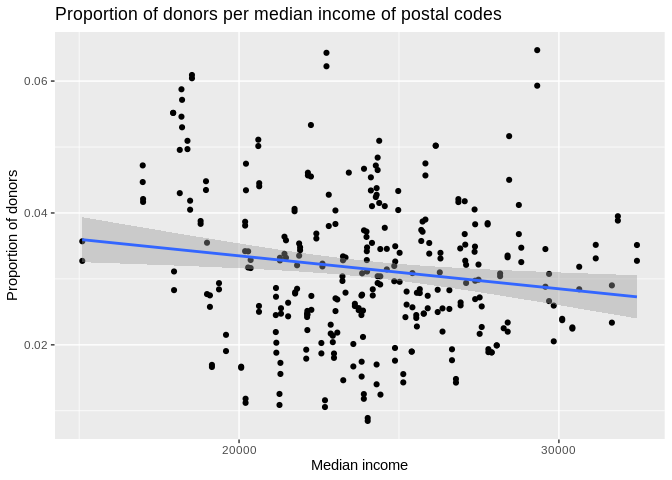
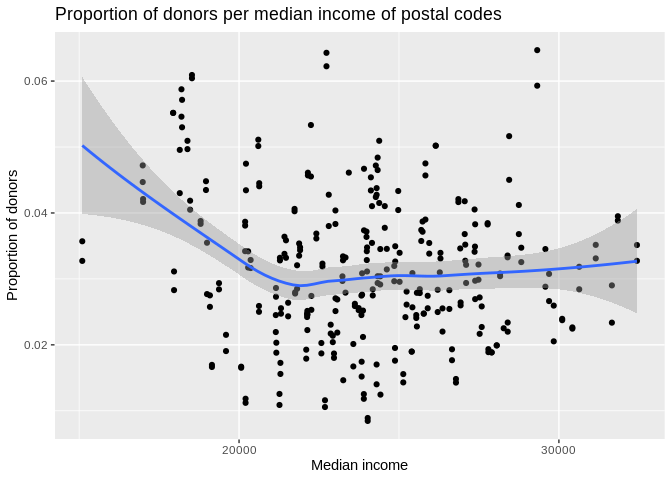
few comments and pretty strong negative trend with proportion of donors and distance

Changed region(s): [[0.125, 0.1562, 0.9688, 0.6562]]

diff --git a/src/visualising_model_data.md b/src/visualising_model_data.md
@@ -7,14 +7,14 @@ Ilpo Arminen
 library(tidyverse)
 ```
 
-    ## ── Attaching packages ─────────────────────────────────────── tidyverse 1.2.1 ──
+    ## ── Attaching packages ───────────────────────────────────────────────────── tidyverse 1.2.1 ──
 
     ## ✔ ggplot2 3.2.0          ✔ purrr   0.3.2     
     ## ✔ tibble  2.1.3          ✔ dplyr   0.8.2     
     ## ✔ tidyr   0.8.3.9000     ✔ stringr 1.4.0     
     ## ✔ readr   1.3.1          ✔ forcats 0.4.0
 
-    ## ── Conflicts ────────────────────────────────────────── tidyverse_conflicts() ──
+    ## ── Conflicts ──────────────────────────────────────────────────────── tidyverse_conflicts() ──
     ## ✖ dplyr::filter() masks stats::filter()
     ## ✖ dplyr::lag()    masks stats::lag()
 
@@ -57,7 +57,7 @@ load("/home/ilpo/Paavo/data/model_data.RData")
 label(model_data$medianincome)  <- "Median income of household per postal code"
 label(model_data$averageincome) <- "Average income of household per postal code"
 label(model_data$proportion_inhabitants_with_higher_education)  <- "Share of inhabitants with higher education per postal code"
-label(model_data$prop_donors) <- "Proportion of donors per postal code "
+label(model_data$prop_donors) <- "Proportion of donors per postal code."
 label(model_data$nb_fixed_donations_per_zip) <- "Proportion of donations per postal code"
 label(model_data$nb_fixed_donors_per_zip) <- "Number of donors per zip"
 label(model_data$proportion_inhabitants_with_higher_education) <- "Proportion_inhabitants_with_higher_education"
@@ -71,7 +71,7 @@ units(model_data$averageincome) <- "Euro"
  table1(~prop_donors + eligible_population + nb_fixed_donors_per_zip + nb_fixed_donations_per_zip + nb_fixed_donors_per_zip + medianincome + averageincome + proportion_inhabitants_with_higher_education + proportion_inhabitants_with_higher_education + prop_repeat_donors + prop_new_donors + prop_donors + nb_fixed_donation_per_act_donor,data = model_data, overall = "Total", topclass="Rtable1-grid Rtable1-center")
 ```
 
-    ## [1] "<table class=\"Rtable1-grid Rtable1-center\">\n<thead>\n<tr>\n<th class='rowlabel firstrow lastrow'></th>\n<th class='firstrow lastrow'><span class='stratlabel'>Total<br><span class='stratn'>(n=302)</span></span></th>\n</tr>\n</thead>\n<tbody>\n<tr>\n<td class='rowlabel firstrow'><span class='varlabel'>Proportion of donors per postal code </span></td>\n<td class='firstrow'></td>\n</tr>\n<tr>\n<td class='rowlabel'>Mean (SD)</td>\n<td>0.0315 (0.0110)</td>\n</tr>\n<tr>\n<td class='rowlabel lastrow'>Median [Min, Max]</td>\n<td class='lastrow'>0.0308 [0.00846, 0.0647]</td>\n</tr>\n<tr>\n<td class='rowlabel firstrow'><span class='varlabel'>Number of residents per zip who is suitable for donating blood</span></td>\n<td class='firstrow'></td>\n</tr>\n<tr>\n<td class='rowlabel'>Mean (SD)</td>\n<td>4960 (2810)</td>\n</tr>\n<tr>\n<td class='rowlabel lastrow'>Median [Min, Max]</td>\n<td class='lastrow'>4440 [1110, 15700]</td>\n</tr>\n<tr>\n<td class='rowlabel firstrow'><span class='varlabel'>Number of donors per zip</span></td>\n<td class='firstrow'></td>\n</tr>\n<tr>\n<td class='rowlabel'>Mean (SD)</td>\n<td>145 (86.9)</td>\n</tr>\n<tr>\n<td class='rowlabel lastrow'>Median [Min, Max]</td>\n<td class='lastrow'>117 [53.0, 552]</td>\n</tr>\n<tr>\n<td class='rowlabel firstrow'><span class='varlabel'>Proportion of donations per postal code</span></td>\n<td class='firstrow'></td>\n</tr>\n<tr>\n<td class='rowlabel'>Mean (SD)</td>\n<td>248 (143)</td>\n</tr>\n<tr>\n<td class='rowlabel lastrow'>Median [Min, Max]</td>\n<td class='lastrow'>205 [100, 929]</td>\n</tr>\n<tr>\n<td class='rowlabel firstrow'><span class='varlabel'>Median income of household per postal code<span class='varunits'> (Euro)</span></span></td>\n<td class='firstrow'></td>\n</tr>\n<tr>\n<td class='rowlabel'>Mean (SD)</td>\n<td>23700 (3320)</td>\n</tr>\n<tr>\n<td class='rowlabel lastrow'>Median [Min, Max]</td>\n<td class='lastrow'>23500 [16400, 33100]</td>\n</tr>\n<tr>\n<td class='rowlabel firstrow'><span class='varlabel'>Average income of household per postal code<span class='varunits'> (Euro)</span></span></td>\n<td class='firstrow'></td>\n</tr>\n<tr>\n<td class='rowlabel'>Mean (SD)</td>\n<td>27200 (5770)</td>\n</tr>\n<tr>\n<td class='rowlabel lastrow'>Median [Min, Max]</td>\n<td class='lastrow'>25700 [17900, 53700]</td>\n</tr>\n<tr>\n<td class='rowlabel firstrow'><span class='varlabel'>Proportion_inhabitants_with_higher_education</span></td>\n<td class='firstrow'></td>\n</tr>\n<tr>\n<td class='rowlabel'>Mean (SD)</td>\n<td>0.417 (0.156)</td>\n</tr>\n<tr>\n<td class='rowlabel lastrow'>Median [Min, Max]</td>\n<td class='lastrow'>0.408 [0.132, 0.770]</td>\n</tr>\n<tr>\n<td class='rowlabel firstrow'><span class='varlabel'>prop_repeat_donors</span></td>\n<td class='firstrow'></td>\n</tr>\n<tr>\n<td class='rowlabel'>Mean (SD)</td>\n<td>0.0279 (0.00977)</td>\n</tr>\n<tr>\n<td class='rowlabel lastrow'>Median [Min, Max]</td>\n<td class='lastrow'>0.0266 [0.00812, 0.0557]</td>\n</tr>\n<tr>\n<td class='rowlabel firstrow'><span class='varlabel'>prop_new_donors</span></td>\n<td class='firstrow'></td>\n</tr>\n<tr>\n<td class='rowlabel'>Mean (SD)</td>\n<td>0.00363 (0.00173)</td>\n</tr>\n<tr>\n<td class='rowlabel lastrow'>Median [Min, Max]</td>\n<td class='lastrow'>0.00337 [0.000334, 0.0108]</td>\n</tr>\n<tr>\n<td class='rowlabel firstrow'><span class='varlabel'>Number of donations divided by numbers of donor per zip</span></td>\n<td class='firstrow'></td>\n</tr>\n<tr>\n<td class='rowlabel'>Mean (SD)</td>\n<td>1.73 (0.145)</td>\n</tr>\n<tr>\n<td class='rowlabel lastrow'>Median [Min, Max]</td>\n<td class='lastrow'>1.71 [1.41, 2.32]</td>\n</tr>\n</tbody>\n</table>\n"
+    ## [1] "<table class=\"Rtable1-grid Rtable1-center\">\n<thead>\n<tr>\n<th class='rowlabel firstrow lastrow'></th>\n<th class='firstrow lastrow'><span class='stratlabel'>Total<br><span class='stratn'>(n=302)</span></span></th>\n</tr>\n</thead>\n<tbody>\n<tr>\n<td class='rowlabel firstrow'><span class='varlabel'>Proportion of donors per postal code.</span></td>\n<td class='firstrow'></td>\n</tr>\n<tr>\n<td class='rowlabel'>Mean (SD)</td>\n<td>0.0315 (0.0110)</td>\n</tr>\n<tr>\n<td class='rowlabel lastrow'>Median [Min, Max]</td>\n<td class='lastrow'>0.0308 [0.00846, 0.0647]</td>\n</tr>\n<tr>\n<td class='rowlabel firstrow'><span class='varlabel'>Number of residents per zip who is suitable for donating blood</span></td>\n<td class='firstrow'></td>\n</tr>\n<tr>\n<td class='rowlabel'>Mean (SD)</td>\n<td>4960 (2810)</td>\n</tr>\n<tr>\n<td class='rowlabel lastrow'>Median [Min, Max]</td>\n<td class='lastrow'>4440 [1110, 15700]</td>\n</tr>\n<tr>\n<td class='rowlabel firstrow'><span class='varlabel'>Number of donors per zip</span></td>\n<td class='firstrow'></td>\n</tr>\n<tr>\n<td class='rowlabel'>Mean (SD)</td>\n<td>145 (86.9)</td>\n</tr>\n<tr>\n<td class='rowlabel lastrow'>Median [Min, Max]</td>\n<td class='lastrow'>117 [53.0, 552]</td>\n</tr>\n<tr>\n<td class='rowlabel firstrow'><span class='varlabel'>Proportion of donations per postal code</span></td>\n<td class='firstrow'></td>\n</tr>\n<tr>\n<td class='rowlabel'>Mean (SD)</td>\n<td>248 (143)</td>\n</tr>\n<tr>\n<td class='rowlabel lastrow'>Median [Min, Max]</td>\n<td class='lastrow'>205 [100, 929]</td>\n</tr>\n<tr>\n<td class='rowlabel firstrow'><span class='varlabel'>Median income of household per postal code<span class='varunits'> (Euro)</span></span></td>\n<td class='firstrow'></td>\n</tr>\n<tr>\n<td class='rowlabel'>Mean (SD)</td>\n<td>23700 (3320)</td>\n</tr>\n<tr>\n<td class='rowlabel lastrow'>Median [Min, Max]</td>\n<td class='lastrow'>23500 [16400, 33100]</td>\n</tr>\n<tr>\n<td class='rowlabel firstrow'><span class='varlabel'>Average income of household per postal code<span class='varunits'> (Euro)</span></span></td>\n<td class='firstrow'></td>\n</tr>\n<tr>\n<td class='rowlabel'>Mean (SD)</td>\n<td>27200 (5770)</td>\n</tr>\n<tr>\n<td class='rowlabel lastrow'>Median [Min, Max]</td>\n<td class='lastrow'>25700 [17900, 53700]</td>\n</tr>\n<tr>\n<td class='rowlabel firstrow'><span class='varlabel'>Proportion_inhabitants_with_higher_education</span></td>\n<td class='firstrow'></td>\n</tr>\n<tr>\n<td class='rowlabel'>Mean (SD)</td>\n<td>0.417 (0.156)</td>\n</tr>\n<tr>\n<td class='rowlabel lastrow'>Median [Min, Max]</td>\n<td class='lastrow'>0.408 [0.132, 0.770]</td>\n</tr>\n<tr>\n<td class='rowlabel firstrow'><span class='varlabel'>prop_repeat_donors</span></td>\n<td class='firstrow'></td>\n</tr>\n<tr>\n<td class='rowlabel'>Mean (SD)</td>\n<td>0.0279 (0.00977)</td>\n</tr>\n<tr>\n<td class='rowlabel lastrow'>Median [Min, Max]</td>\n<td class='lastrow'>0.0266 [0.00812, 0.0557]</td>\n</tr>\n<tr>\n<td class='rowlabel firstrow'><span class='varlabel'>prop_new_donors</span></td>\n<td class='firstrow'></td>\n</tr>\n<tr>\n<td class='rowlabel'>Mean (SD)</td>\n<td>0.00363 (0.00173)</td>\n</tr>\n<tr>\n<td class='rowlabel lastrow'>Median [Min, Max]</td>\n<td class='lastrow'>0.00337 [0.000334, 0.0108]</td>\n</tr>\n<tr>\n<td class='rowlabel firstrow'><span class='varlabel'>Number of donations divided by numbers of donor per zip</span></td>\n<td class='firstrow'></td>\n</tr>\n<tr>\n<td class='rowlabel'>Mean (SD)</td>\n<td>1.73 (0.145)</td>\n</tr>\n<tr>\n<td class='rowlabel lastrow'>Median [Min, Max]</td>\n<td class='lastrow'>1.71 [1.41, 2.32]</td>\n</tr>\n</tbody>\n</table>\n"
 
 ``` r
 #kable(model_data)
@@ -138,7 +138,7 @@ geom_histogram()
 ``` r
 ggplot(data=model_data, mapping = aes(x= medianincome, y= prop_donors))+
 geom_point(mapping = aes(x= medianincome, y= prop_donors)) +
-geom_smooth (method = "gam") + 
+geom_smooth (method = "loess") + 
 scale_x_log10() +
   labs(x = "Median income",
         y = "Proportion of donors",
@@ -150,7 +150,7 @@ scale_x_log10() +
 ``` r
 #facet_grid(Year~.)
 
-#There seems to be quite a number of areas with high proportion of donors and lower than 20k median income. After checking this, it seems that areas are all from Lahti. Also need to pay attention that im not visualising the years separately, so  there are same data points with different year. Besides Lahti, it seems that there is  (mild)  positive correlation between median income and proportion of donors, but only to some degree so that richest ares do not have highest prop donors. 
+#There seems to be quite a number of areas with high proportion of donors and lower than 20k median income. After checking this, it seems that areas are all from Lahti. Also need to pay attention that im not visualising the years separately, so  there are same data points with different year. it seems that there could be  (mild)  positive correlation between median income and proportion of donors, but only to some degree so that richest ares do not have highest prop donors and there are areas with high prop of donors and less than 20k median income, so there might be even negative linear correlation.  I would guess that Helsinki would fit to linear model better, than the whole dataset.
 ```
 
 ## proportion of donors and median income with zip labels.
@@ -170,7 +170,6 @@ mapping = aes(label = name)) +
 ![](visualising_model_data_files/figure-gfm/unnamed-chunk-11-1.png)<!-- -->
 
 ``` r
-#facet_grid(Year~.)
 #facet_grid(Year ~.)
 
 # This if helpful for seeing that high proportion of donors seems to be areas near the fixed sites, atleast in Ruskeasuo, Etelä-Haaga and Lahti Asemanseutu. 
@@ -199,7 +198,7 @@ facet_grid(Year~.)
 ![](visualising_model_data_files/figure-gfm/unnamed-chunk-12-1.png)<!-- -->
 
 ``` r
-# It seems that distance to donation site does not matter as much as i thought. This could be matter of minDIst scale which goes in this picture  from 400 meters to almost 3km. 
+# It seems that distance to donation site does not matter as much as i thought. This could be matter of minDIst categories that hides the trend. I should maybe change the colors so i coulld see the differences easier. 
 ```
 
 ### proportion of donors, median income and population
@@ -242,7 +241,7 @@ facet_grid(Year~.)
     ##     super:  <ggproto object: Class FacetGrid, Facet, gg>
 
 ``` r
-# High number of  donors comes from smaller postal codes. 
+# Highest proportion of donors tend to come from smaller postal codes which sounds pretty reasonable, since there need to be smaller amount of donors per population. 
 ```
 
 \#proportion of new donors plus median income +
@@ -267,6 +266,11 @@ facet_grid(Year~.)
     ## `geom_smooth()` using method = 'loess' and formula 'y ~ x'
 
 ![](visualising_model_data_files/figure-gfm/unnamed-chunk-14-1.png)<!-- -->
+
+``` r
+# So this looks new donors and distance per median income. It seems that new donors do not live nearby of donation sites, so it looks pretty similar to all donors plot.  Trend might be sligtly negative.
+```
+
 Proportion of new donors, median income +
 population
 
@@ -285,6 +289,10 @@ facet_grid(Year~.)
     ## `geom_smooth()` using method = 'loess' and formula 'y ~ x'
 
 ![](visualising_model_data_files/figure-gfm/unnamed-chunk-15-1.png)<!-- -->
+
+``` r
+# New donors also tend to come from postal codes from smaller population. 
+```
 
 # proportion of repeat donors, median income + distance
 
@@ -430,8 +438,8 @@ facet_grid(Year~.)
 
 ![](visualising_model_data_files/figure-gfm/unnamed-chunk-22-1.png)<!-- -->
 
-\#Higher education and prop
-donor
+\#Higher education and proportion of
+donors
 
 ``` r
 ggplot(data=model_data, mapping = aes(x= proportion_inhabitants_with_higher_education, y= prop_donors))+
@@ -448,6 +456,10 @@ facet_grid(Year~.)
     ## `geom_smooth()` using method = 'loess' and formula 'y ~ x'
 
 ![](visualising_model_data_files/figure-gfm/unnamed-chunk-23-1.png)<!-- -->
+
+``` r
+#  Median income and tertiary education plots seems to be pretty similar. Postal codes from Lahti doesn't really fit into linear trend. Although smoothing curve tend to have a little bit more linearity curve before it drops down.  There might be some stronger correlation than with proportion of donors and median income.  
+```
 
 ## Proportion of donors, higher education and distance
 
@@ -471,11 +483,15 @@ facet_grid(Year~.)
 
 ![](visualising_model_data_files/figure-gfm/unnamed-chunk-24-1.png)<!-- -->
 
+``` r
+# Distance doesn't seems to have a lot of effect  on this plot. There are some data points from close distances, but there isn't really any kind of trend that favors close distance donations. 
+```
+
 ### Propportion of donors, higher education and population
 
 ``` r
-ggplot(data=model_data, mapping = aes(x= proportion_inhabitants_with_higher_education, y= prop_donors, color= eligible_population))+
-geom_point(mapping = aes(x= proportion_inhabitants_with_higher_education,, y= prop_donors)) +
+ggplot(data=model_data, mapping = aes(x= proportion_inhabitants_with_higher_education, y= prop_donors, color= eligible_population)) +
+geom_point(mapping = aes(x= proportion_inhabitants_with_higher_education,, y= prop_donors))  +
 geom_smooth () + 
 scale_x_log10() +
 scale_color_viridis(discrete=FALSE,direction = -1,trans="log") + 
@@ -489,6 +505,10 @@ facet_grid(Year~.)
 
 ![](visualising_model_data_files/figure-gfm/unnamed-chunk-25-1.png)<!-- -->
 
+``` r
+# Population size of postal code tends to favor high number of donors in smaller places. This is in line with common sense since donations are measured by dividing the population size with number of donors.  Highest number of tertiary educated inhabitants behave similar to those highest number of median income areas, where there are quite a downfall in donation trend. 
+```
+
 ##### proportion of new donors, higher education and eligible population
 
 ``` r
@@ -496,7 +516,7 @@ ggplot(data=model_data, mapping = aes(x= proportion_inhabitants_with_higher_educ
 geom_point(mapping = aes(x= proportion_inhabitants_with_higher_education,, y= prop_new_donors)) +
 geom_smooth () + 
 scale_x_log10() +
-scale_color_viridis(discrete=FALSE,direction = -1,trans="log") + 
+scale_color_viridis(discrete = FALSE,direction = -1,trans="log") + 
    labs(x = "Proportion of inhabitants with higher education per postal code",
         y = "Proportion of new donors",
         title = "Proportion of new donors and higher education per postal code") +
@@ -546,3 +566,89 @@ facet_grid(Year~.)
     ## `geom_smooth()` using method = 'loess' and formula 'y ~ x'
 
 ![](visualising_model_data_files/figure-gfm/unnamed-chunk-28-1.png)<!-- -->
+
+``` 
+                          # Distance and proportion of donors 
+```
+
+``` r
+ggplot(data=model_data, mapping = aes(x= minDist, y= prop_donors))+
+geom_point(mapping = aes(x= minDist, y= prop_donors)) +
+geom_smooth () + 
+scale_x_log10() +
+scale_color_viridis(discrete=FALSE,direction = -1,trans="log") + 
+labs(x = "Distance to closest donation site",
+        y = "Proportion of donors",
+        title = "Proportion of  donors and distance to closest donation site") +
+facet_grid(Year~.)
+```
+
+    ## Warning: Transformation introduced infinite values in continuous x-axis
+    
+    ## Warning: Transformation introduced infinite values in continuous x-axis
+
+    ## `geom_smooth()` using method = 'loess' and formula 'y ~ x'
+
+    ## Warning: Removed 4 rows containing non-finite values (stat_smooth).
+
+![](visualising_model_data_files/figure-gfm/unnamed-chunk-29-1.png)<!-- -->
+
+``` r
+# So i could not see it from the pictures where distance was only coloring feature, but plotting distance versus proportion of donors shows pretty agressive negatively linear trend.  Ith shows that when distance increases the proportion of donors decreases. 
+```
+
+## Distance and proportion of repeated donors
+
+``` r
+ggplot(data=model_data, mapping = aes(x= minDist, y= prop_repeat_donors))+
+geom_point(mapping = aes(x= minDist, y= prop_repeat_donors)) +
+geom_smooth () + 
+scale_x_log10() +
+scale_color_viridis(discrete=FALSE,direction = -1,trans="log") + 
+  labs(x = "Distance to closest donation site",
+        y = "Proportion of repeat donors",
+        title = "Proportion of  repeat donors and distance to closest donation site") +
+facet_grid(Year~.)
+```
+
+    ## Warning: Transformation introduced infinite values in continuous x-axis
+    
+    ## Warning: Transformation introduced infinite values in continuous x-axis
+
+    ## `geom_smooth()` using method = 'loess' and formula 'y ~ x'
+
+    ## Warning: Removed 4 rows containing non-finite values (stat_smooth).
+
+![](visualising_model_data_files/figure-gfm/unnamed-chunk-30-1.png)<!-- -->
+
+``` r
+# Same negative trend is visible on repeated donors also. 
+```
+
+### Distance and proportion of new donors
+
+``` r
+ggplot(data=model_data, mapping = aes(x= minDist, y= prop_new_donors))+
+geom_point(mapping = aes(x= minDist, y= prop_repeat_donors)) +
+geom_smooth () + 
+scale_x_log10() +
+scale_color_viridis(discrete=FALSE,direction = -1,trans="log") + 
+    labs(x = "Distance to closest donation site",
+        y = "Proportion of new donors",
+        title = "Proportion of  new donors and distance to closest donation site") +
+facet_grid(Year~.)
+```
+
+    ## Warning: Transformation introduced infinite values in continuous x-axis
+    
+    ## Warning: Transformation introduced infinite values in continuous x-axis
+
+    ## `geom_smooth()` using method = 'loess' and formula 'y ~ x'
+
+    ## Warning: Removed 4 rows containing non-finite values (stat_smooth).
+
+![](visualising_model_data_files/figure-gfm/unnamed-chunk-31-1.png)<!-- -->
+
+``` r
+# New donors do not fit into the same negative trend than all the donors and repeated donors and this plot looks pretty wierd because of that. 
+```
